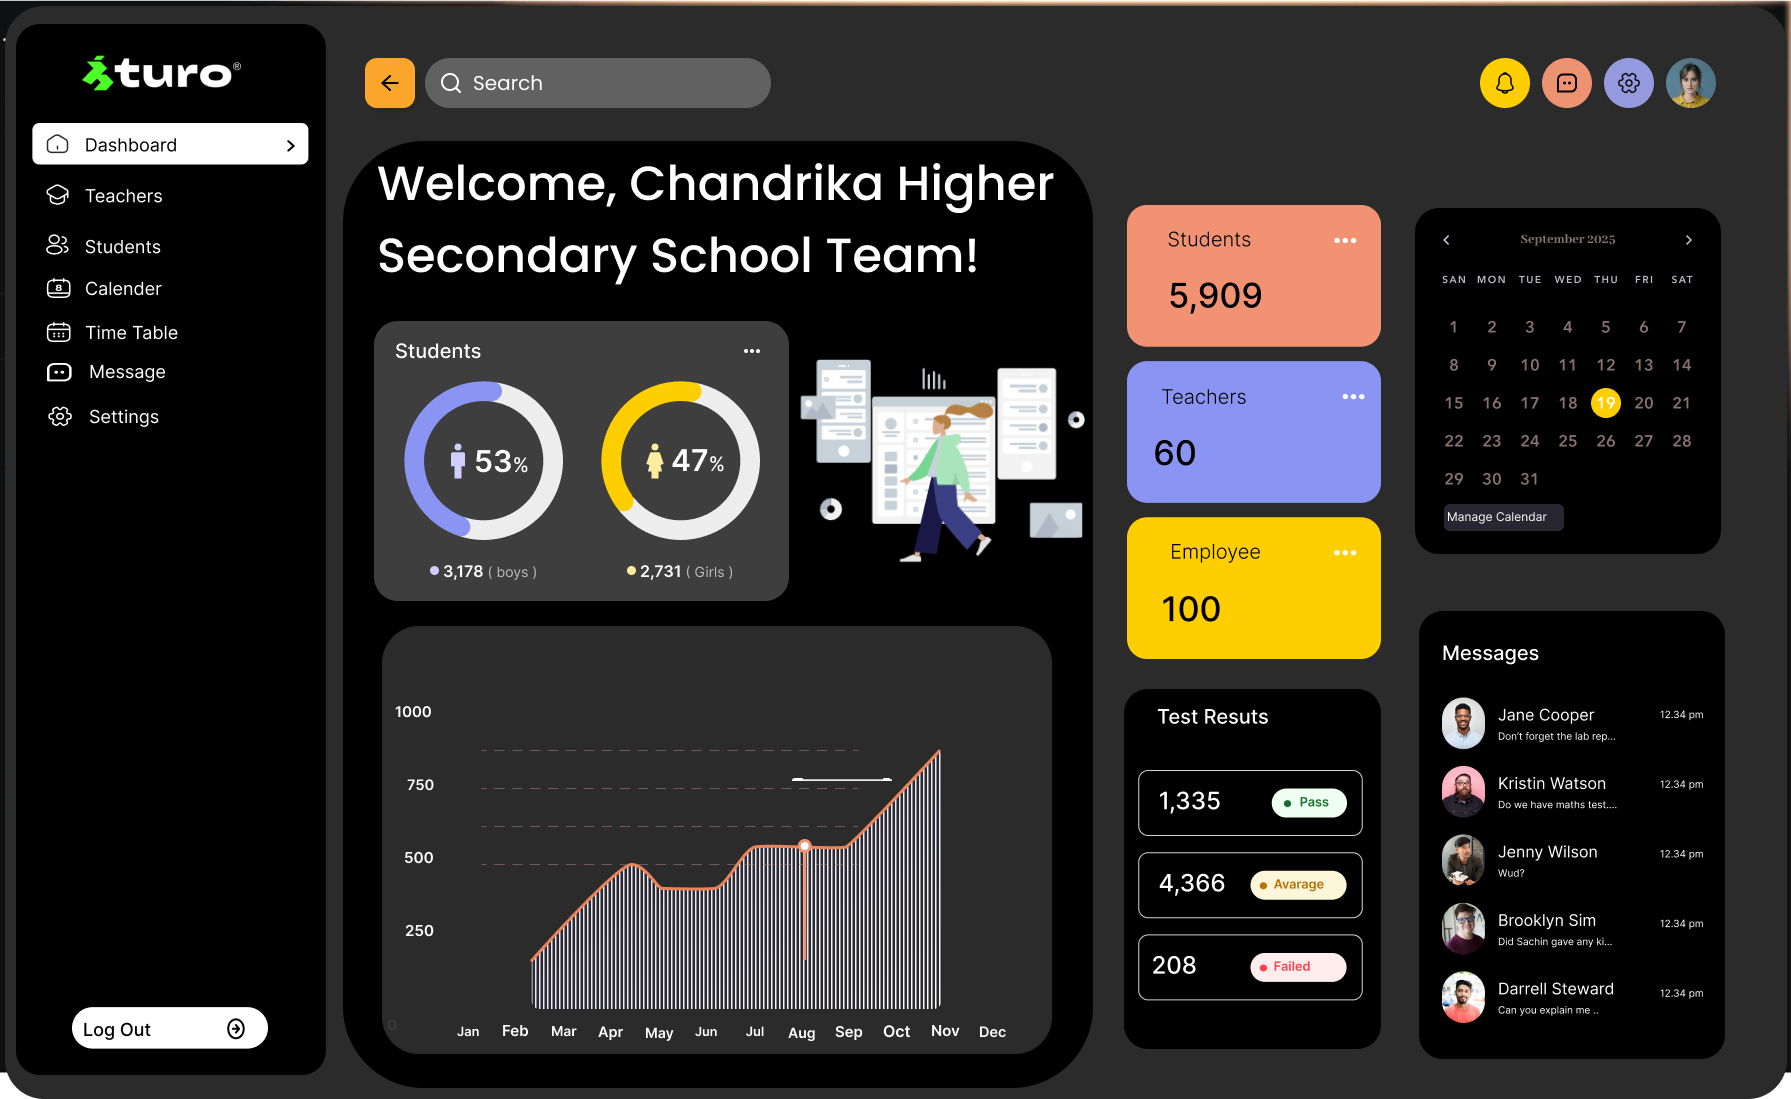
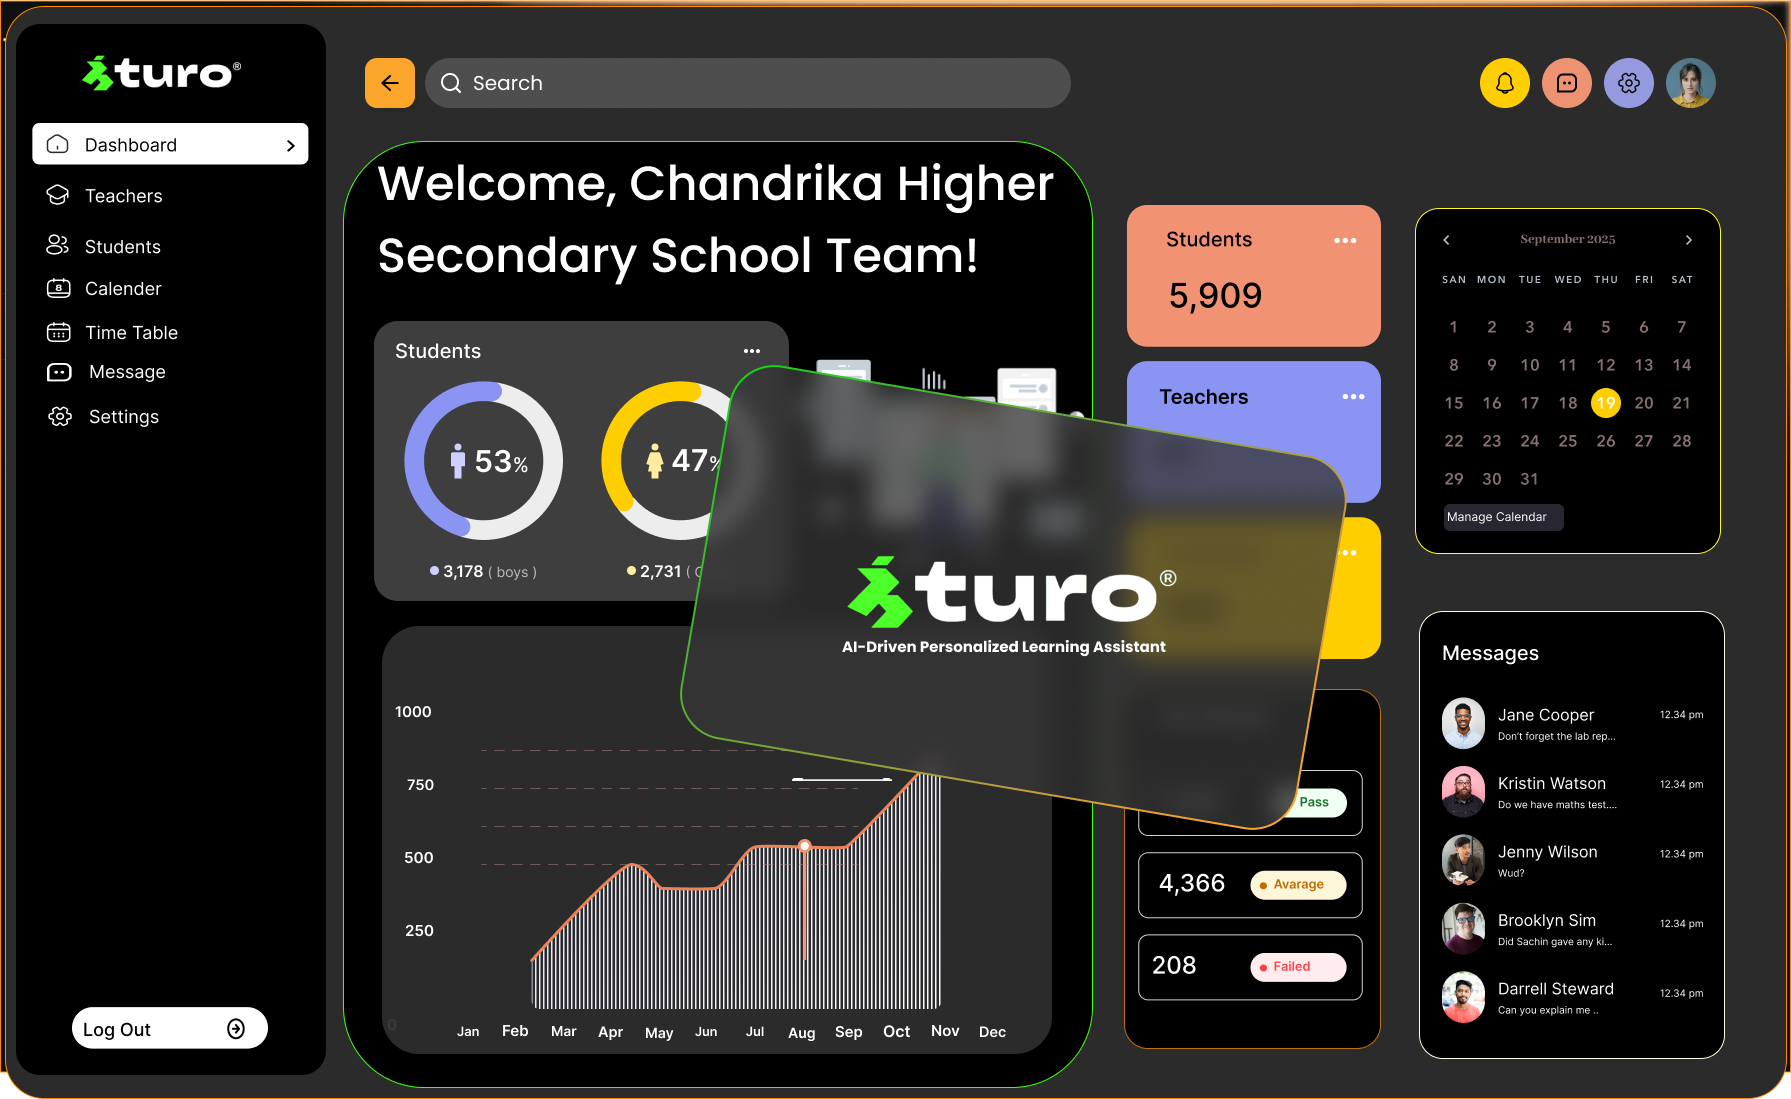
ui changes

diff --git a/frontend/components/hero-section.tsx b/frontend/components/hero-section.tsx
@@ -189,14 +189,14 @@ export default function HeroSection() {
                 <div className="inset-shadow-2xs ring-background dark:inset-shadow-white/20 bg-background relative mx-auto max-w-6xl overflow-hidden rounded-2xl border p-4 shadow-lg shadow-zinc-950/15 ring-1">
                   <Image
                     className="bg-background aspect-15/8 relative hidden rounded-2xl dark:block"
-                    src="/mail2.png"
+                    src="/mail2-light.png"
                     alt="app screen"
                     width="2700"
                     height="1440"
                   />
                   <Image
                     className="z-2 border-border/25 aspect-15/8 relative rounded-2xl border dark:hidden"
-                    src="/mail2-light.png"
+                    src="/mail2-light1.png"
                     alt="app screen"
                     width="2700"
                     height="1440"
